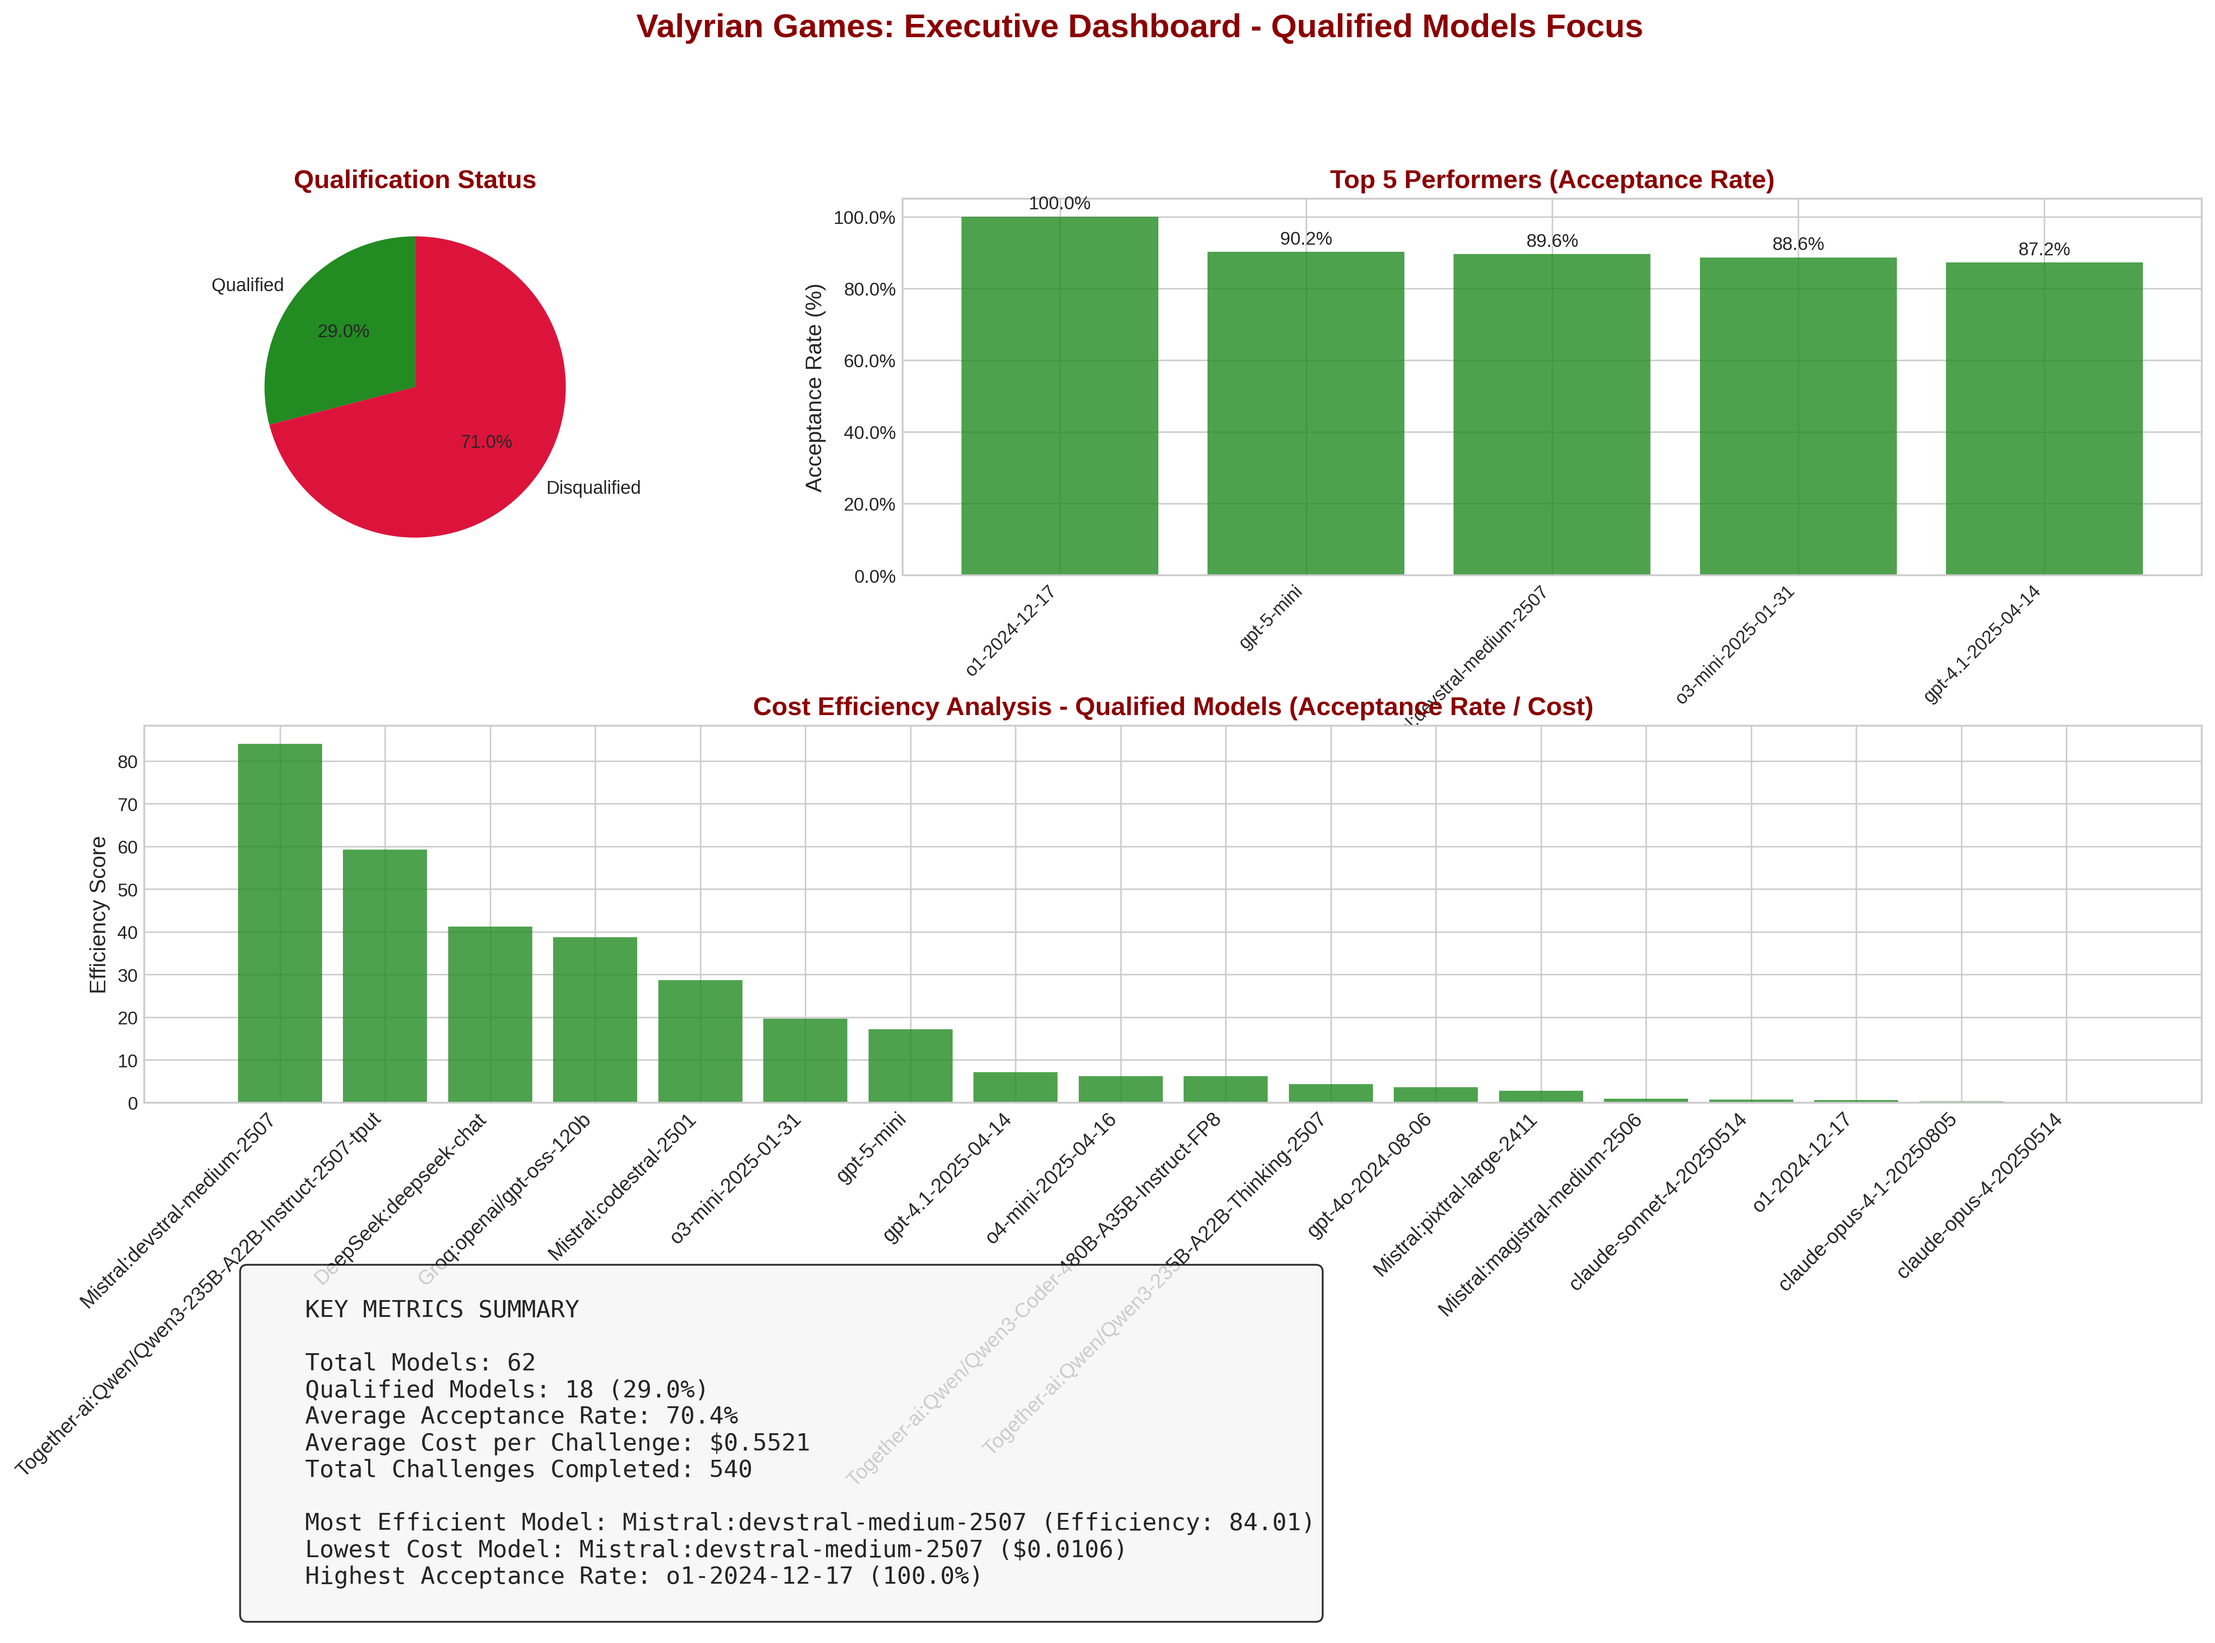
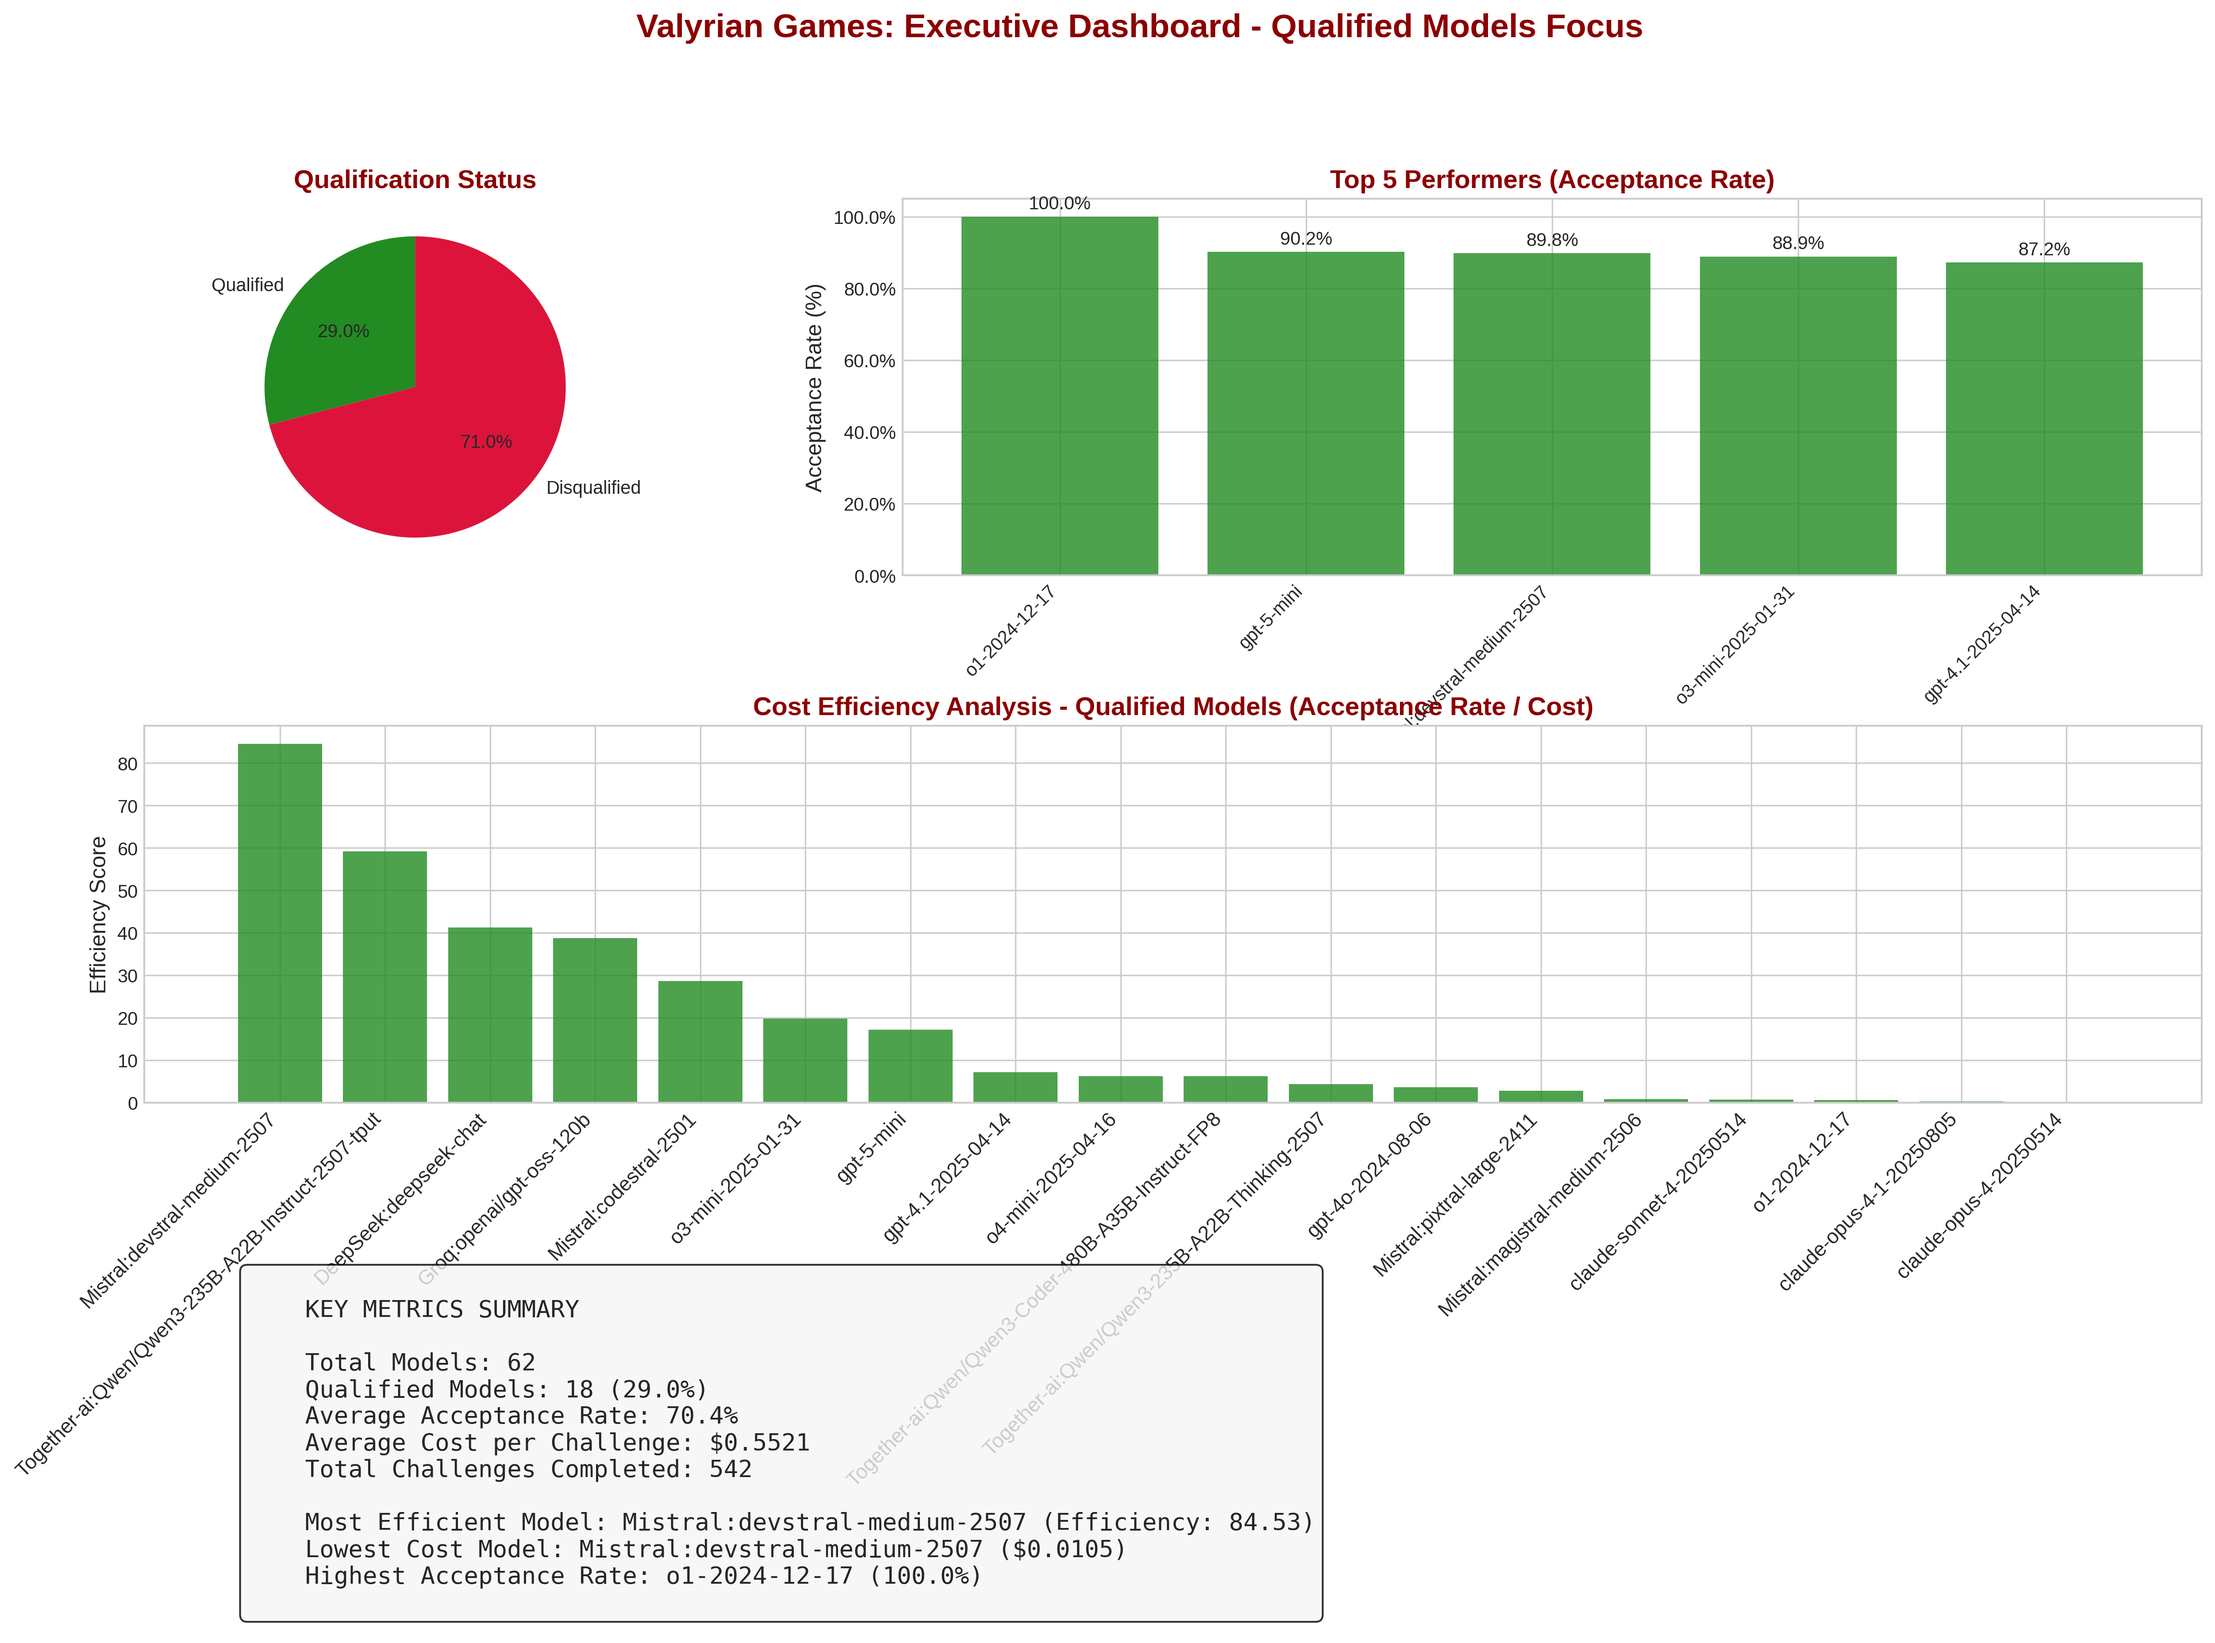
update data

diff --git a/qualification_results.md b/qualification_results.md
@@ -1,6 +1,6 @@
 # Valyrian Games - Coding Challenge Statistics Report
 
-**Generated:** 2025-08-31 16:39:29
+**Generated:** 2025-09-01 23:02:30
 **Sorted by:** Acceptance Rate
 
 ## Visual Analytics Overview
@@ -23,8 +23,8 @@
 |-----------------------------------------------|------------|---------|----------|-----------|------------|
 | OpenAI:o1-2024-12-17                          |      11/11 |  100.0% |    98.2% |    $1.667 |   96.4 t/s |
 | OpenAI:gpt-5-mini                             |      37/41 |   90.2% |    97.4% |    $0.052 |   62.6 t/s |
-| Mistral:devstral-medium-2507                  |      43/48 |   89.6% |    88.8% |    $0.011 |   80.1 t/s |
-| OpenAI:o3-mini-2025-01-31                     |      39/44 |   88.6% |    88.6% |    $0.045 |  108.2 t/s |
+| Mistral:devstral-medium-2507                  |      44/49 |   89.8% |    89.0% |    $0.011 |   80.2 t/s |
+| OpenAI:o3-mini-2025-01-31                     |      40/45 |   88.9% |    88.9% |    $0.045 |  106.8 t/s |
 | OpenAI:gpt-4.1-2025-04-14                     |      34/39 |   87.2% |    84.7% |    $0.122 |   57.8 t/s |
 | OpenAI:o4-mini-2025-04-16                     |      26/34 |   76.5% |    81.6% |    $0.123 |   88.3 t/s |
 | Together-ai:Qwen/Qwen3-235B-A22B-Instruct-... |      37/50 |   74.0% |    77.1% |    $0.012 |   45.3 t/s |
@@ -131,46 +131,46 @@
 ## Mistral:devstral-medium-2507
 
 ### Challenge Summary
-- **Total Challenges:** 48
-- **Accepted:** 43 (89.6%)
-- **Rejected:** 5 (10.4%)
+- **Total Challenges:** 49
+- **Accepted:** 44 (89.8%)
+- **Rejected:** 5 (10.2%)
 
 ### Success Rate Analysis
-- **Total Solution Attempts:** 240
-- **Correct Attempts:** 213
-- **Overall Success Rate:** 88.8%
-- **Average Success Rate per Challenge:** 88.7%
+- **Total Solution Attempts:** 245
+- **Correct Attempts:** 218
+- **Overall Success Rate:** 89.0%
+- **Average Success Rate per Challenge:** 89.0%
 
 ### Performance Metrics
-- **Total Tokens:** 120,485
-- **Total Cost:** $0.5070
-- **Total Time:** 1505.0 seconds
-- **Average Tokens per Challenge:** 2510
-- **Average Cost per Challenge:** $0.0106
-- **Average Time per Challenge:** 31.4 seconds
-- **Average Efficiency:** 80.1 tokens/second
+- **Total Tokens:** 122,276
+- **Total Cost:** $0.5157
+- **Total Time:** 1524.3 seconds
+- **Average Tokens per Challenge:** 2495
+- **Average Cost per Challenge:** $0.0105
+- **Average Time per Challenge:** 31.1 seconds
+- **Average Efficiency:** 80.2 tokens/second
 
 ## OpenAI:o3-mini-2025-01-31
 
 ### Challenge Summary
-- **Total Challenges:** 44
-- **Accepted:** 39 (88.6%)
-- **Rejected:** 5 (11.4%)
+- **Total Challenges:** 45
+- **Accepted:** 40 (88.9%)
+- **Rejected:** 5 (11.1%)
 
 ### Success Rate Analysis
-- **Total Solution Attempts:** 220
-- **Correct Attempts:** 195
-- **Overall Success Rate:** 88.6%
-- **Average Success Rate per Challenge:** 88.6%
+- **Total Solution Attempts:** 225
+- **Correct Attempts:** 200
+- **Overall Success Rate:** 88.9%
+- **Average Success Rate per Challenge:** 88.9%
 
 ### Performance Metrics
-- **Total Tokens:** 326,067
-- **Total Cost:** $1.9788
-- **Total Time:** 3012.7 seconds
-- **Average Tokens per Challenge:** 7411
-- **Average Cost per Challenge:** $0.0450
-- **Average Time per Challenge:** 68.5 seconds
-- **Average Efficiency:** 108.2 tokens/second
+- **Total Tokens:** 333,350
+- **Total Cost:** $2.0220
+- **Total Time:** 3121.2 seconds
+- **Average Tokens per Challenge:** 7408
+- **Average Cost per Challenge:** $0.0449
+- **Average Time per Challenge:** 69.4 seconds
+- **Average Efficiency:** 106.8 tokens/second
 
 ## OpenAI:gpt-4.1-2025-04-14
 
